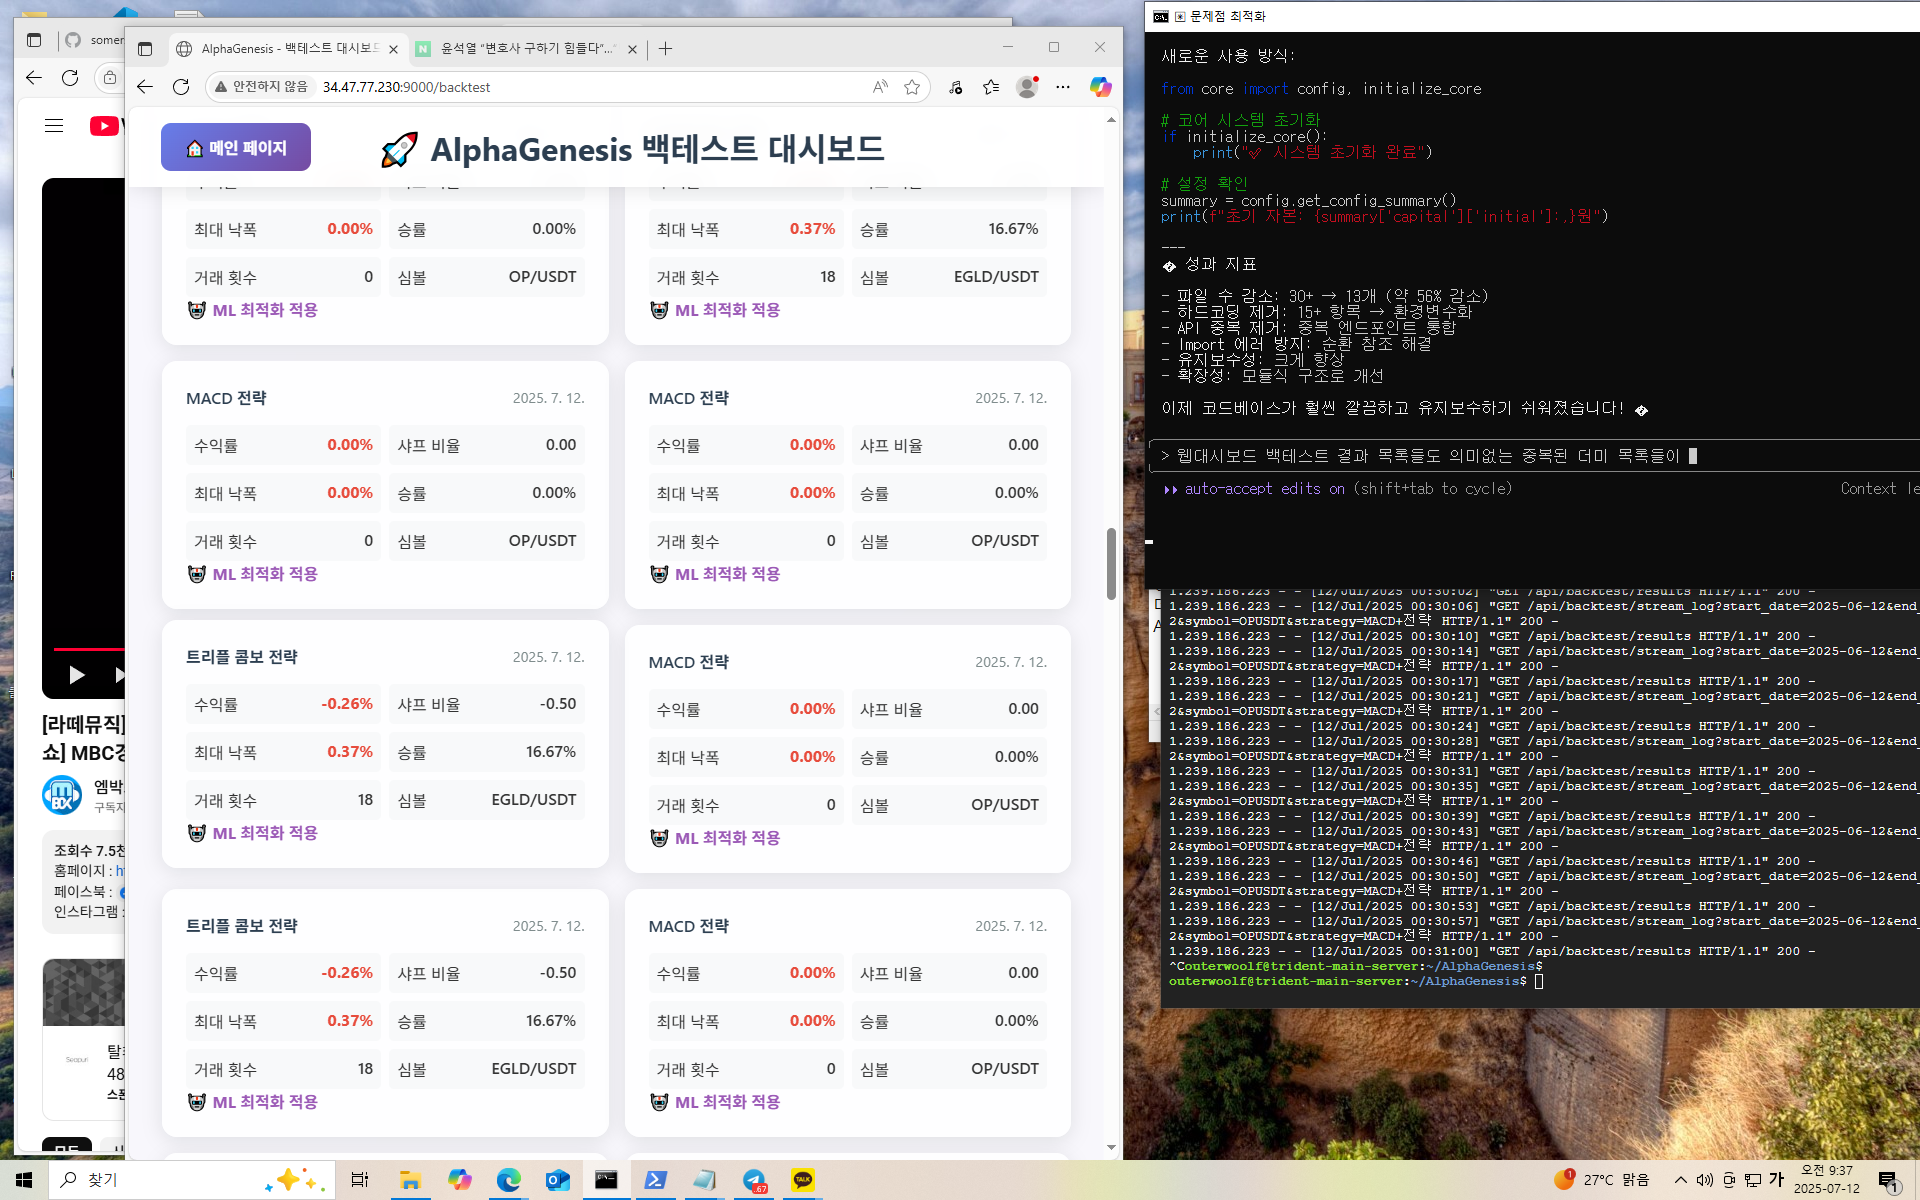
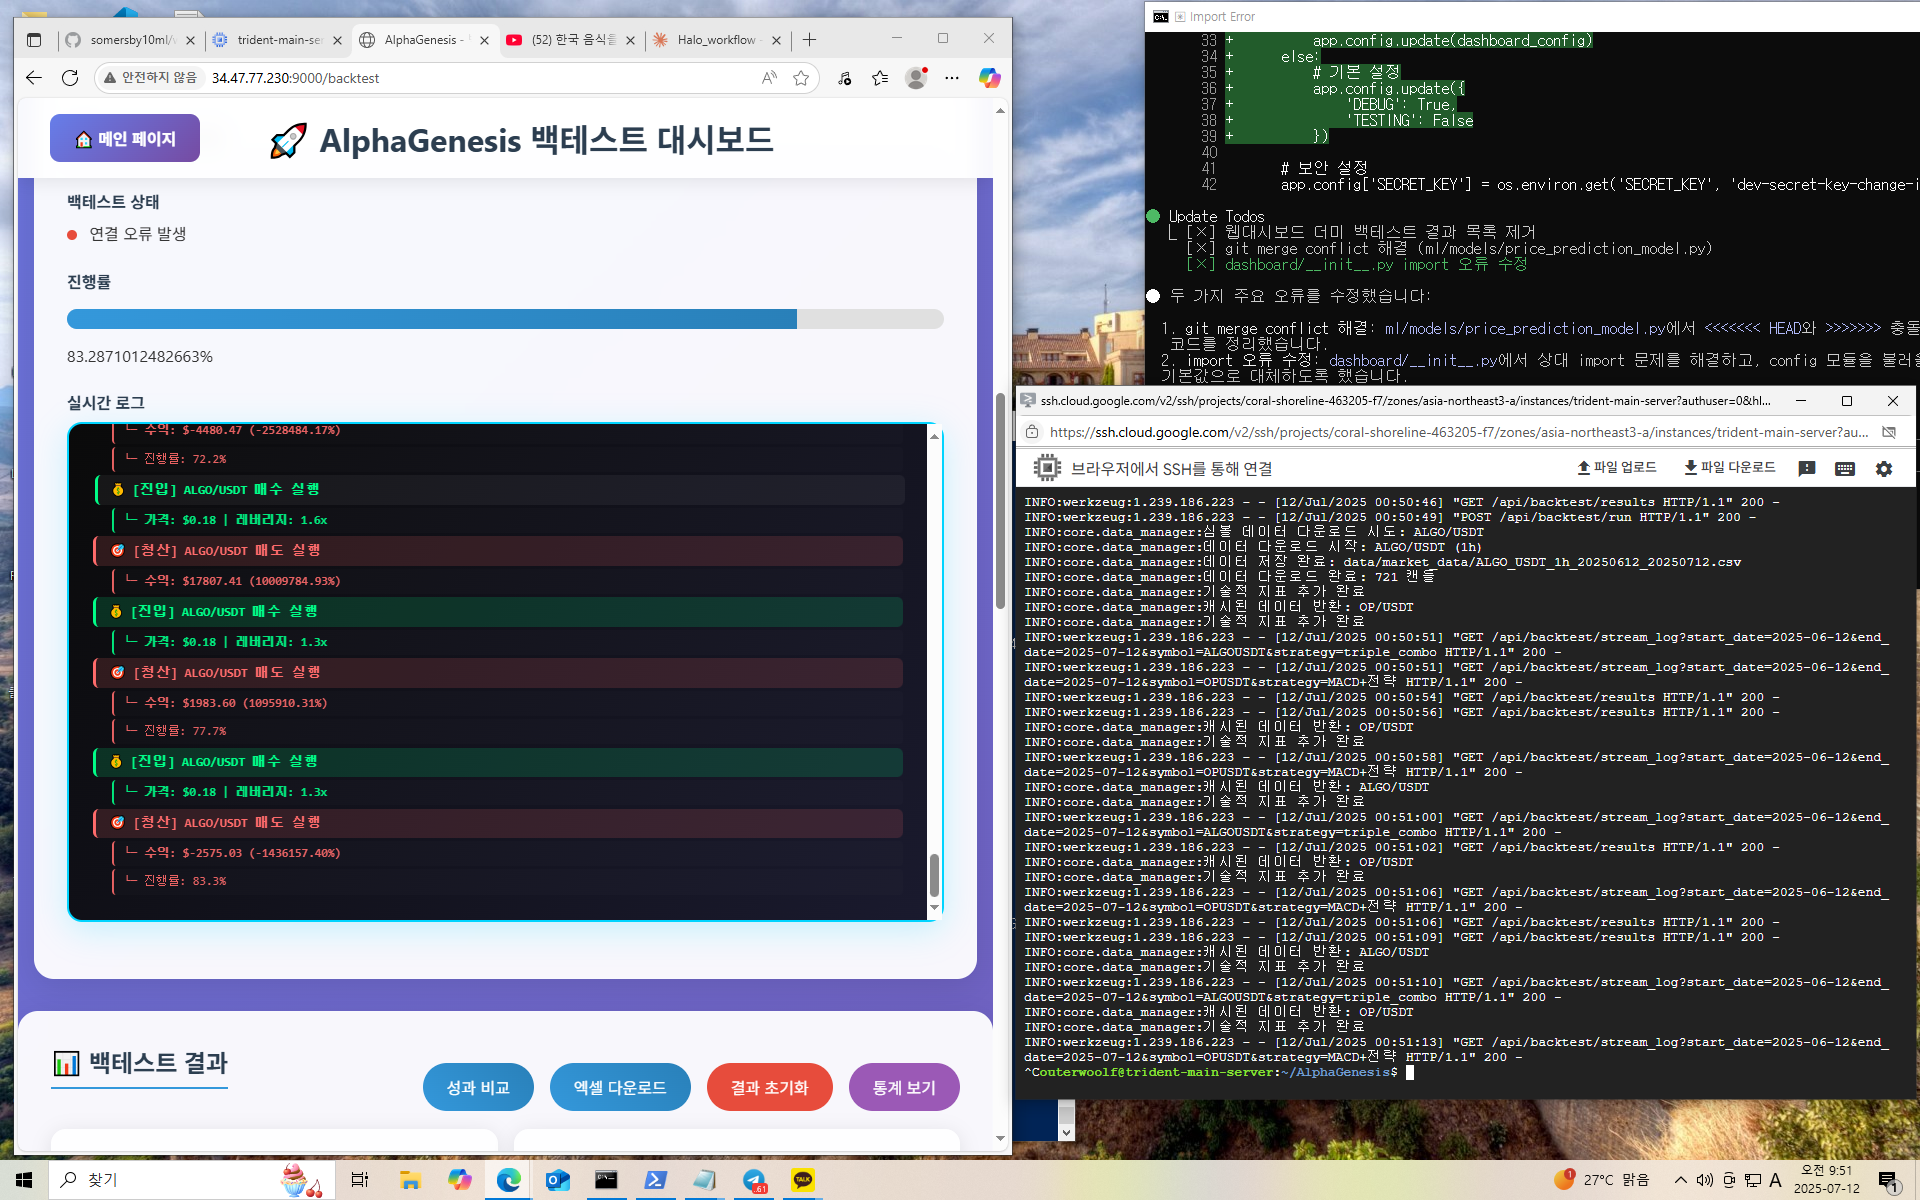
08:52 업그레이드

diff --git a/dashboard/templates/backtest_dashboard.html b/dashboard/templates/backtest_dashboard.html
@@ -1317,13 +1317,14 @@
         let strategies = [];
         let symbols = [];
 
-        // 페이지 로드 시 초기화
+        // 페이지 로드 시 초기화 (자동 실행 제거)
         document.addEventListener('DOMContentLoaded', function() {
             initializeDates();
             loadStrategies();
             loadSymbols();
-            loadBacktestResults();
+            // loadBacktestResults(); // 자동 로드 제거
             setupEventListeners();
+            updateStatus('stopped', '백테스트를 시작하려면 설정 후 시작 버튼을 클릭하세요');
         });
 
         // 날짜 초기화 (시작일: 1달 전, 종료일: 오늘)
@@ -1607,12 +1608,28 @@
             }
 
             // 백테스트 설정 파라미터 준비
-            const params = new URLSearchParams({
-                start_date: document.getElementById('startDate').value,
-                end_date: document.getElementById('endDate').value,
-                symbol: document.querySelector('input[name="symbolType"]:checked').value === 'all' ? 'ALL_MARKET' : document.getElementById('symbolSelect').value,
-                strategy: document.getElementById('strategy').value
-            });
+            // 선택된 심볼과 전략 검증
+            const selectedSymbol = document.querySelector('input[name="symbolType"]:checked').value === 'all' ? 'ALL_MARKET' : document.getElementById('symbolSelect').value;
+            const selectedStrategy = document.getElementById('strategy').value;
+            
+            if (!selectedStrategy) {
+                console.warn('전략이 선택되지 않음');
+                updateStatus('stopped', '전략을 선택해주세요');
+                return;
+            }
+            
+            if (selectedSymbol === 'ALL_MARKET' || selectedSymbol) {
+                const params = new URLSearchParams({
+                    start_date: document.getElementById('startDate').value,
+                    end_date: document.getElementById('endDate').value,
+                    symbol: selectedSymbol,
+                    strategy: selectedStrategy
+                });
+            } else {
+                console.warn('심볼이 선택되지 않음');
+                updateStatus('stopped', '심볼을 선택해주세요');
+                return;
+            }
 
             eventSource = new EventSource(`/api/backtest/stream_log?${params.toString()}`);
             
@@ -1634,8 +1651,11 @@
                         }
                     } else {
                         updateStatus('stopped', '백테스트 완료');
-                        loadBacktestResults();
-                        updateStatistics();
+                        // 완료 후에만 결과 로드
+                        setTimeout(() => {
+                            loadBacktestResults();
+                            updateStatistics();
+                        }, 1000);
                     }
                     
                     eventSource.close();

diff --git a/dashboard/routes.py b/dashboard/routes.py
@@ -321,20 +321,26 @@ def get_binance_symbols():
 
 @api.route('/api/strategies', methods=['GET'])
 def get_strategies():
-    """전략 목록 조회 API - 백테스트 엔진에서 실제 전략 로드"""
+    """전략 목록 조회 API - 실제 구현된 전략만 반환"""
     try:
         # 백테스트 엔진의 실제 전략 목록을 가져오기
         engine_strategies = backtest_engine.strategies
         
         strategies = []
         for strategy_id, strategy_info in engine_strategies.items():
+            # 구현된 전략만 포함 (구현되지 않은 전략은 비활성화 표시)
+            is_implemented = strategy_info.get('implemented', True)
+            status = '✅ 사용 가능' if is_implemented else '🚧 구현 예정'
+            
             strategies.append({
                 'id': strategy_id,
                 'name': strategy_info.get('name', strategy_id),
-                'description': strategy_info.get('description', ''),
+                'description': f"{strategy_info.get('description', '')} - {status}",
                 'timeframe': strategy_info.get('timeframe', '1h'),
                 'category': 'technical',
-                'risk_level': 'medium'
+                'risk_level': 'medium',
+                'implemented': is_implemented,
+                'status': status
             })
         
         return jsonify({'strategies': strategies})
@@ -919,32 +925,44 @@ def get_backtest_statistics():
 @api.route('/api/backtest/stream_log')
 def stream_backtest_log():
     """실제 백테스트 로그 실시간 스트리밍 (SSE)"""
-    # request context가 있을 때 파라미터 추출
-    start_date = request.args.get('start_date', '2025-01-01')
-    end_date = request.args.get('end_date', '2025-07-11')
-    symbol = request.args.get('symbol', 'BTC/USDT')
-    strategy_name = request.args.get('strategy', 'triple_combo')
+    # request context가 있을 때 파라미터 추출 및 검증
+    start_date = request.args.get('start_date')
+    end_date = request.args.get('end_date')  
+    symbol = request.args.get('symbol')
+    strategy_name = request.args.get('strategy')
     initial_capital = float(request.args.get('initial_capital', '10000000'))
     backtest_mode = request.args.get('backtest_mode', 'single')
     ml_optimization = request.args.get('ml_optimization', 'off') == 'on'
     
-    # 전략 이름을 ID로 매핑
+    # 필수 파라미터 검증
+    if not all([start_date, end_date, symbol, strategy_name]):
+        def error_response():
+            yield "data: " + json.dumps({
+                "type": "error", 
+                "message": "❌ 필수 파라미터가 누락되었습니다. (날짜, 심볼, 전략)",
+                "timestamp": time.time()
+            }) + "\n\n"
+            yield "data: " + json.dumps({"type": "end"}) + "\n\n"
+        return Response(error_response(), mimetype='text/plain')
+    
+    # 실제 구현된 전략만 매핑
     strategy_name_to_id = {
         '트리플 콤보 전략': 'triple_combo',
-        '심플 트리플 콤보': 'simple_triple_combo',
         'RSI 전략': 'rsi_strategy',
-        'MACD 전략': 'macd_strategy',
-        '볼린저 밴드 전략': 'bollinger_strategy',
-        '모멘텀 전략': 'momentum_strategy',
-        '평균 회귀 전략': 'mean_reversion',
-        'ML 앙상블 전략': 'ml_ensemble',
-        '그리드 트레이딩': 'grid_trading',
-        '차익거래 전략': 'arbitrage'
+        'MACD 전략': 'macd_strategy'  # 구현 예정
     }
     
-    # 전략 이름을 ID로 변환
-    if strategy_name == '전략을 선택하세요' or not strategy_name:
-        strategy = 'triple_combo'  # 기본 전략
+    # 전략 검증 - 유효하지 않은 전략은 실행하지 않음
+    if strategy_name == '전략을 선택하세요' or not strategy_name or strategy_name == '':
+        # 유효하지 않은 전략 요청시 즉시 종료
+        def error_response():
+            yield "data: " + json.dumps({
+                "type": "error",
+                "message": "❌ 전략이 선택되지 않았습니다. 전략을 선택해주세요.",
+                "timestamp": time.time()
+            }) + "\n\n"
+            yield "data: " + json.dumps({"type": "end"}) + "\n\n"
+        return Response(error_response(), mimetype='text/plain')
     else:
         strategy = strategy_name_to_id.get(strategy_name, strategy_name)
     

diff --git a/core/backtest_engine.py b/core/backtest_engine.py
@@ -53,12 +53,13 @@ class RealBacktestEngine:
         self.leverage_manager = DynamicLeverageManager()
         self.results = []
         
-        # 지원하는 전략 목록
+        # 실제 구현된 유의미한 전략 목록만 유지
         self.strategies = {
             'triple_combo': {
                 'name': '트리플 콤보 전략',
-                'description': 'RSI, MACD, 볼린저 밴드 조합',
+                'description': 'RSI, MACD, 볼린저 밴드 조합 (3개 중 2개 충족시 거래)',
                 'timeframe': '1h',
+                'implemented': True,
                 'params': {
                     'rsi_period': (10, 20),
                     'rsi_oversold': (25, 35),
@@ -70,8 +71,9 @@ class RealBacktestEngine:
             },
             'rsi_strategy': {
                 'name': 'RSI 전략',
-                'description': 'RSI 지표 기반 역추세 전략',
+                'description': 'RSI 지표 기반 역추세 전략 (과매수/과매도 구간 활용)',
                 'timeframe': '15m',
+                'implemented': True,
                 'params': {
                     'rsi_period': (10, 20),
                     'rsi_oversold': (20, 35),
@@ -80,43 +82,13 @@ class RealBacktestEngine:
             },
             'macd_strategy': {
                 'name': 'MACD 전략',
-                'description': 'MACD 크로스오버 전략',
+                'description': 'MACD 크로스오버 전략 (구현 예정)',
                 'timeframe': '30m',
+                'implemented': False,
                 'params': {
                     'macd_fast': (8, 15),
                     'macd_slow': (18, 30),
                     'macd_signal': (7, 12)
-                }
-            },
-            'momentum_strategy': {
-                'name': '모멘텀 전략',
-                'description': '가격 모멘텀 추세 추종',
-                'timeframe': '4h',
-                'params': {
-                    'momentum_period': (15, 25),
-                    'threshold': (0.03, 0.08)
-                }
-            },
-            'ml_ensemble': {
-                'name': 'ML 앙상블 전략',
-                'description': '머신러닝 앙상블 예측',
-                'timeframe': '1h',
-                'params': {
-                    'confidence_threshold': (0.6, 0.8),
-                    'ensemble_models': ['XGBoost', 'RandomForest', 'LSTM']
-                }
-            },
-            'simple_triple_combo': {
-                'name': '심플 트리플 콤보',
-                'description': '간단한 트리플 콤보 전략',
-                'timeframe': '1h',
-                'params': {
-                    'rsi_period': (10, 20),
-                    'rsi_oversold': (25, 35),
-                    'rsi_overbought': (65, 75),
-                    'macd_fast': (10, 15),
-                    'macd_slow': (20, 30),
-                    'bb_period': (15, 25)
                 }
             }
         }
